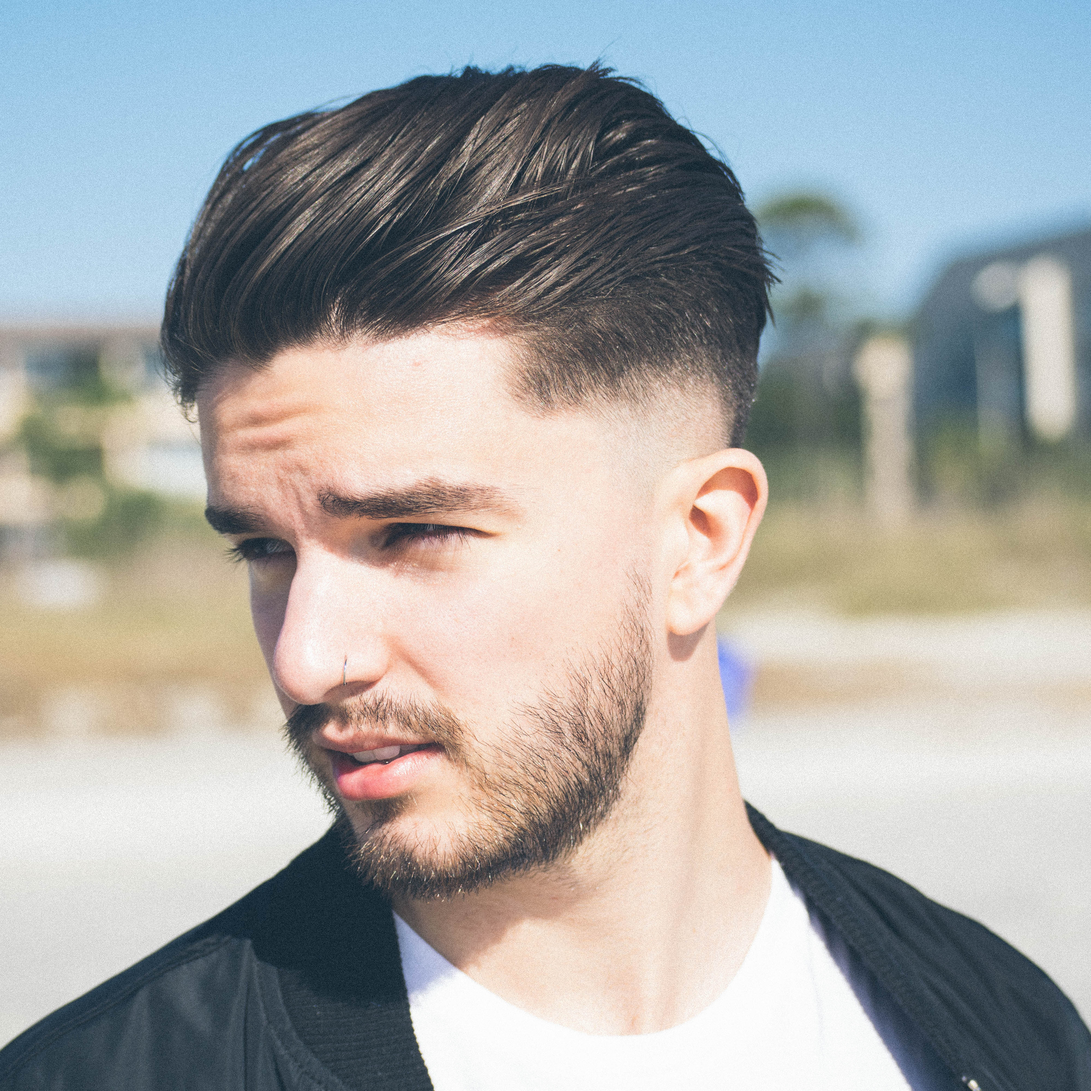
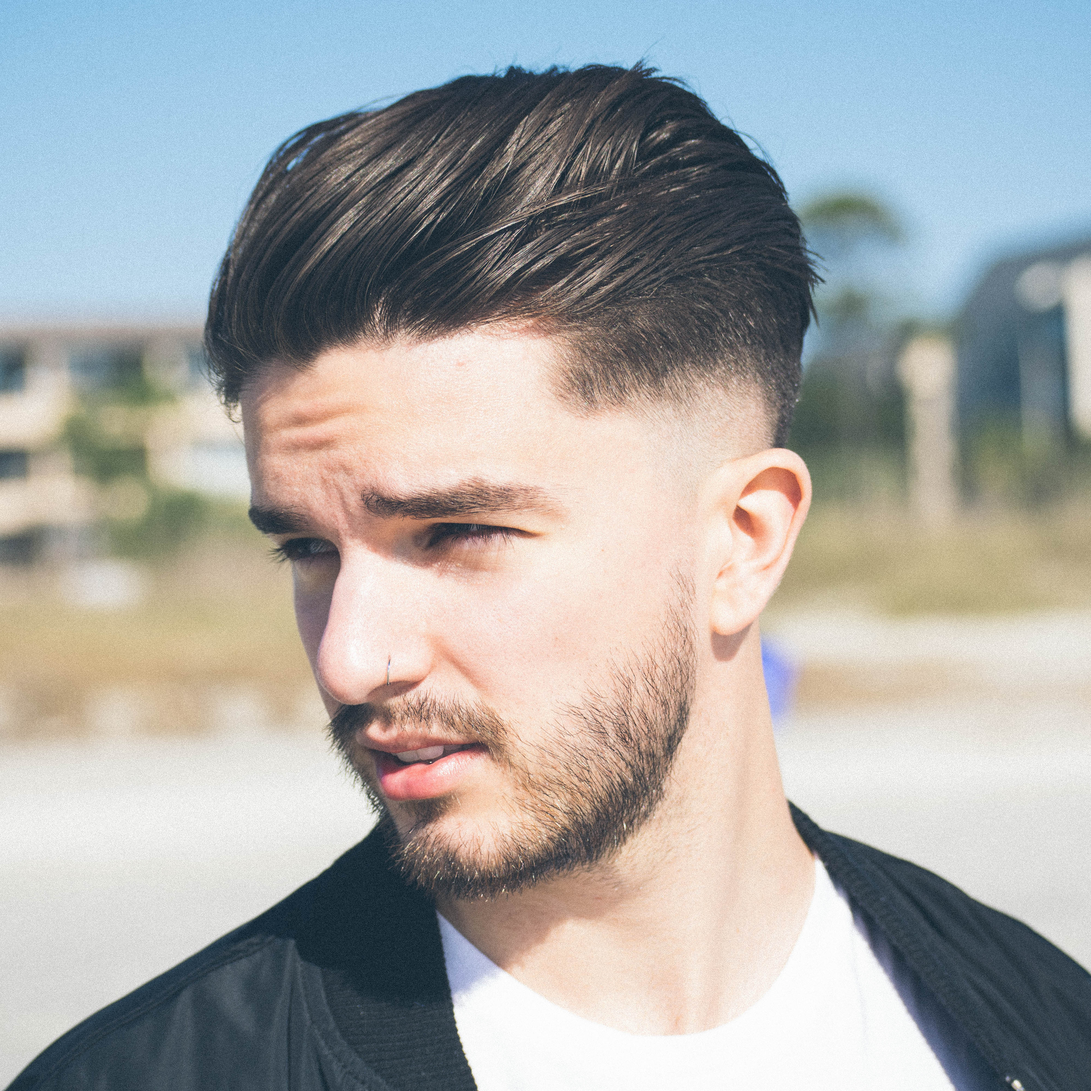
update pictures

diff --git a/src/components/Overview.jsx b/src/components/Overview.jsx
@@ -1,6 +1,7 @@
 import React, { Component } from 'react';
 
-import oldSchoolBarber from '../images/nick-karvounis-156112-unsplash.jpg';
+// import oldSchoolBarber from '../images/nick-karvounis-156112-unsplash.jpg';
+import about from '../images/about.jpg';
 
 class Overview extends Component {
   render() {
@@ -8,7 +9,7 @@ class Overview extends Component {
       <div className="overview">
         <div className="content con-padded flex col center-center">
           <div className="circle-image">
-            <img src={oldSchoolBarber} />
+            <img src={about} />
           </div>
           <div className="summary-text">
             Grooming Lounge is an upscale, new-world barber shop that offers today’s progressive individual a haven where they can sit back, relax, and experience the world class art of grooming and services in a therapeutic club atmosphere. We carry a full line of hair care and shaving cream products including those from high-end brands, as well as select soaps and beard products. Our goal is to become a trusted destination where the clients in our community can come to refresh their minds and bodies, replenish their energies, and network with colleagues and friends.
